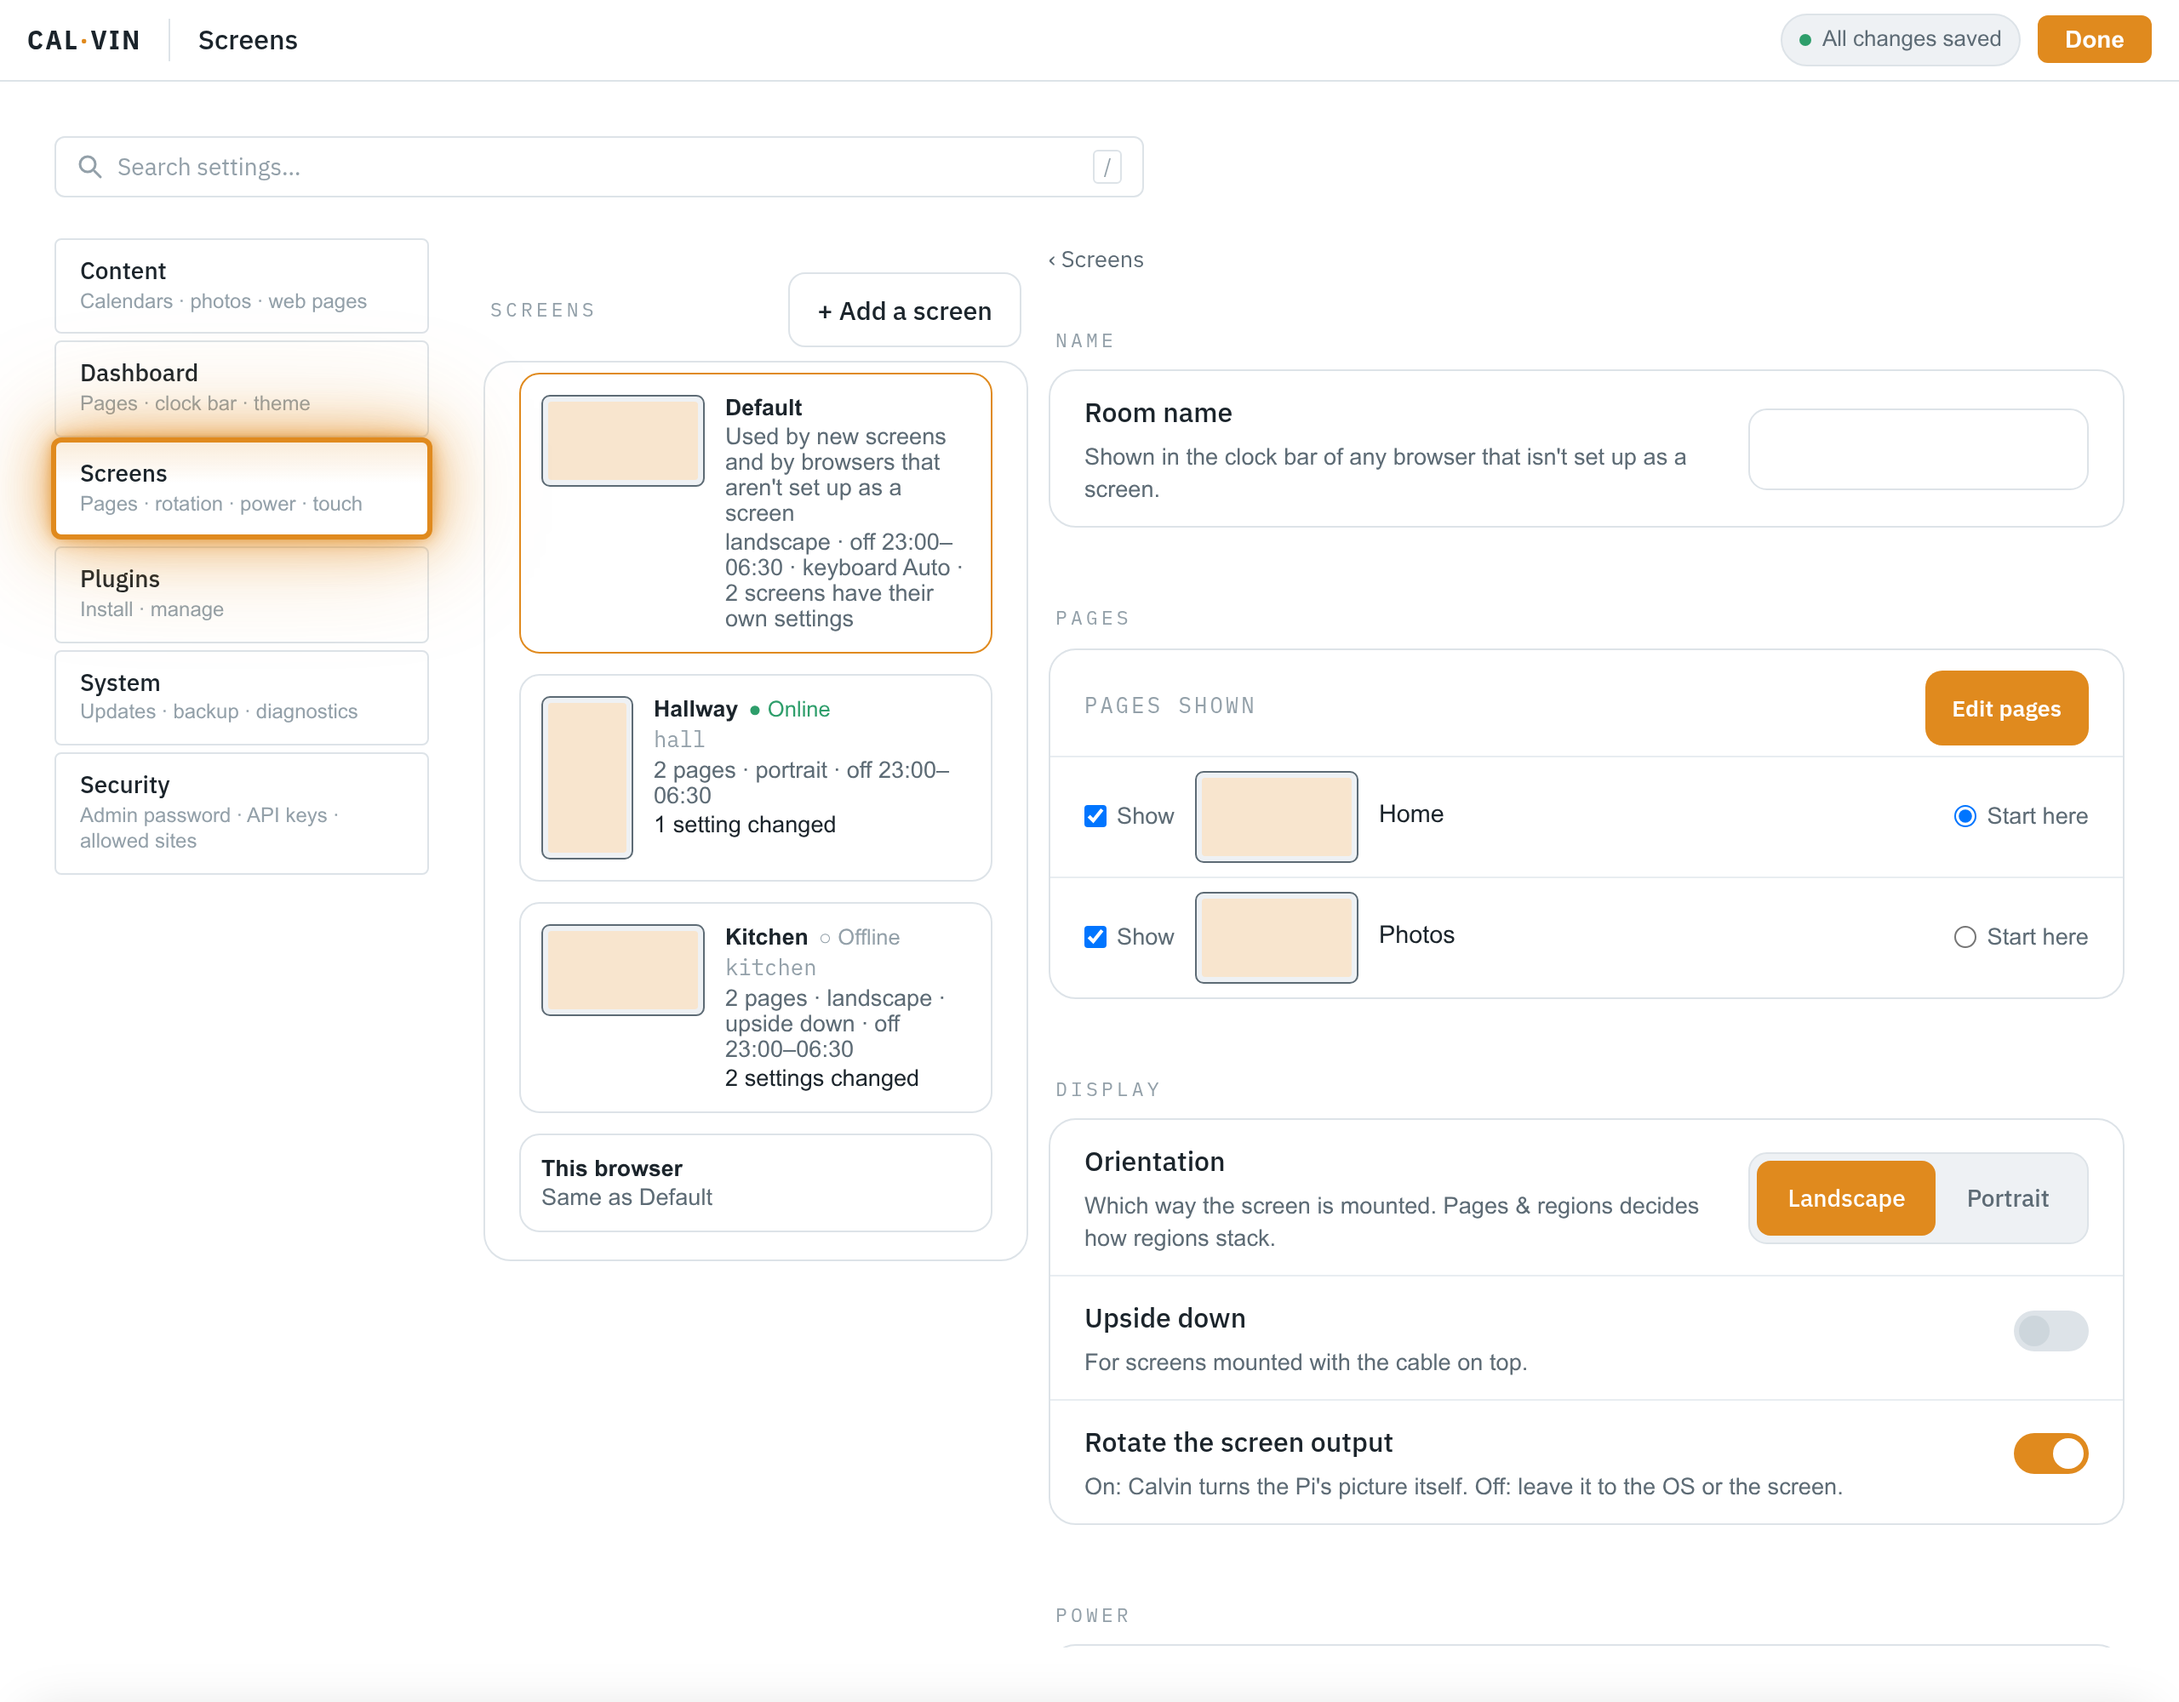
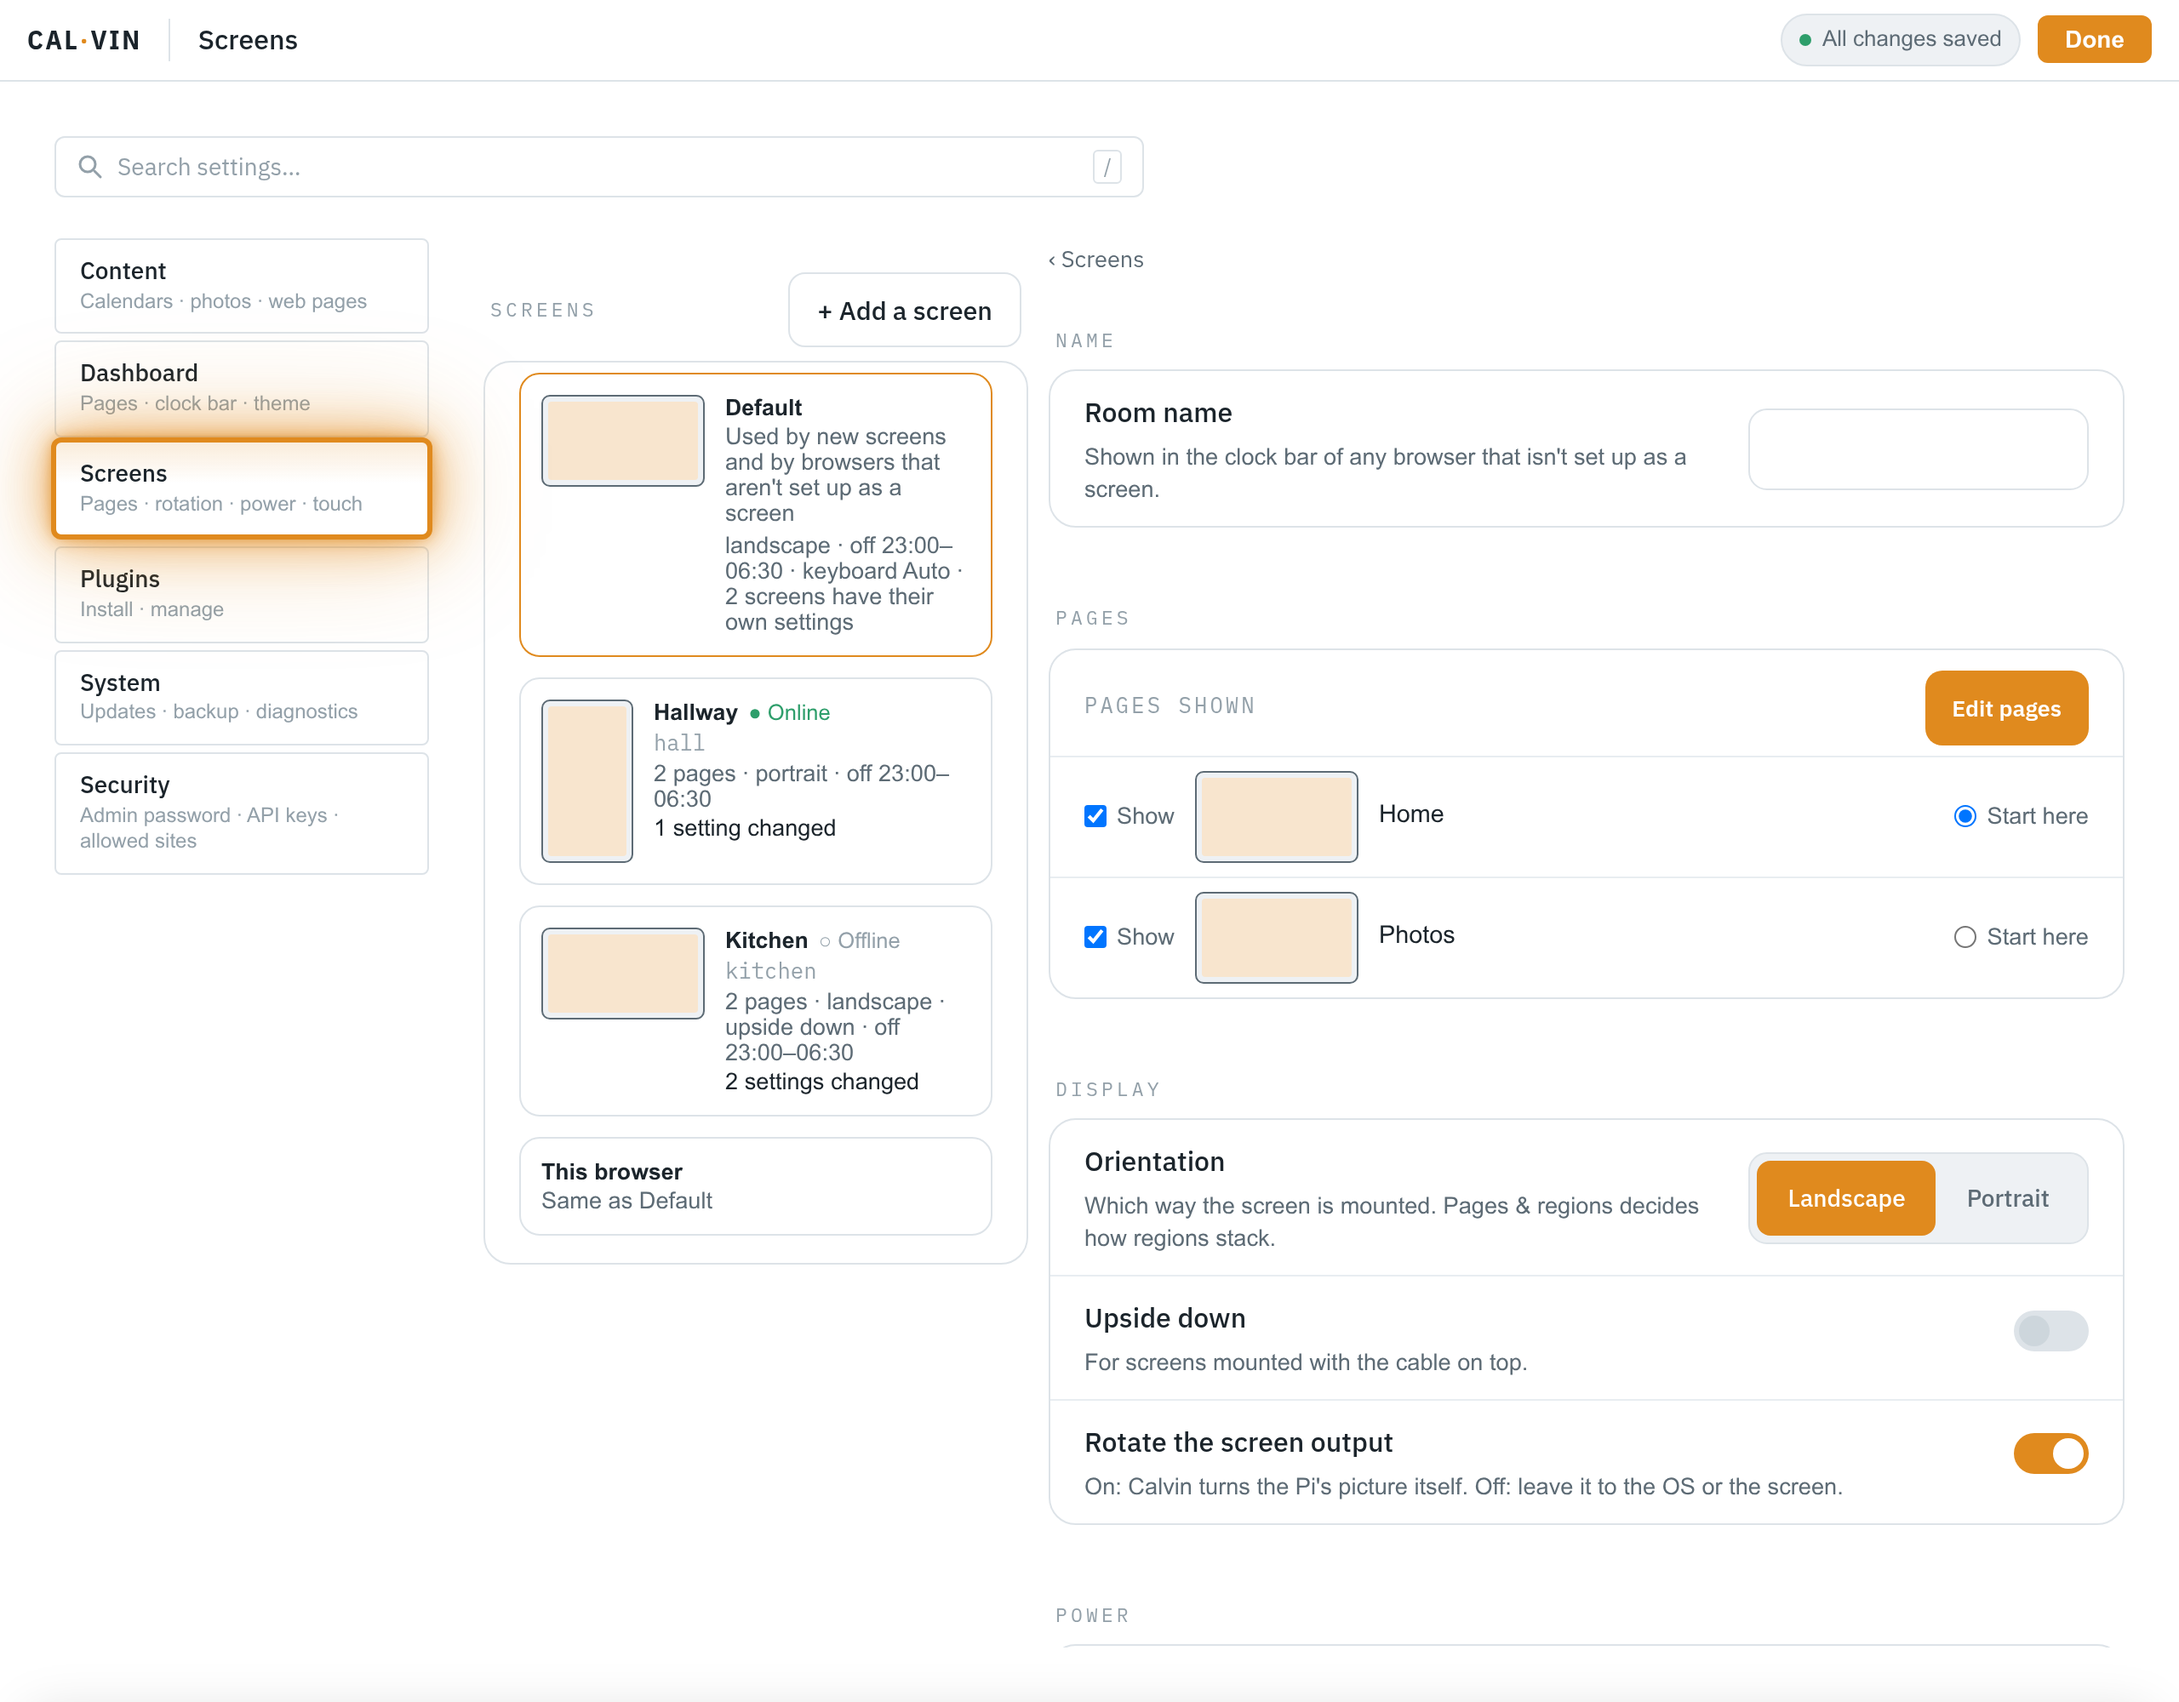
fix(settings): primary confirm for Use these as the default; pad the browser-only Software note (CLV-50)
- ConfirmModal gains a danger prop (default true). Reset everything stays red;
  Make default uses the primary --focus style, since it is not destructive.
- The Software section's browser-only note gets the normal SettingRow padding
  instead of sitting on the card border.
- Default card: keep its summary on its own line, separate from the
  used-by description.
- Refresh the affected before/after screenshots.

Changed region(s): [[0.25, 0.496, 0.4688, 0.744], [0.25, 0.31, 0.4375, 0.496]]

diff --git a/frontend/src/components/settings/shared/ConfirmModal.vue b/frontend/src/components/settings/shared/ConfirmModal.vue
@@ -10,7 +10,7 @@
       </div>
       <div class="modal-footer">
         <button type="button" class="btn-secondary" @click="handleCancel">Cancel</button>
-        <button type="button" class="btn-danger" @click="handleConfirm">
+        <button type="button" :class="danger ? 'btn-danger' : 'btn-primary'" @click="handleConfirm">
           {{ confirmText }}
         </button>
       </div>
@@ -37,6 +37,13 @@ defineProps({
   confirmText: {
     type: String,
     default: "Confirm",
+  },
+  // Destructive actions (delete, reset) keep the red button; a confirming
+  // action that is not destructive (e.g. "Make default") uses the primary
+  // focus style instead, so the colour carries the meaning.
+  danger: {
+    type: Boolean,
+    default: true,
   },
 });
 
@@ -132,6 +139,30 @@ const handleCancel = () => {
 }
 
 .btn-secondary:focus-visible {
+  outline: 2px solid var(--focus);
+  outline-offset: 2px;
+}
+
+.btn-primary {
+  padding: 0.5rem 1rem;
+  min-height: var(--touch-target);
+  background: var(--focus);
+  color: var(--focus-ink);
+  border: none;
+  border-radius: 4px;
+  font-size: 0.9rem;
+  font-weight: 600;
+  cursor: pointer;
+  transition: all 0.2s;
+}
+
+.btn-primary:hover {
+  filter: brightness(1.08);
+  transform: translateY(-1px);
+  box-shadow: 0 2px 4px color-mix(in srgb, var(--focus) 30%, transparent);
+}
+
+.btn-primary:focus-visible {
   outline: 2px solid var(--focus);
   outline-offset: 2px;
 }

diff --git a/frontend/tests/unit/components/ScreensSettings.spec.js b/frontend/tests/unit/components/ScreensSettings.spec.js
@@ -837,9 +837,10 @@ describe("ScreensSettings — software (CLV-19)", () => {
     const { wrapper } = mountScreens({ kiosks: [kiosk({ agentVersion: null })] });
     await flushPromises();
     await selectFirst(wrapper);
-    expect(wrapper.find("[data-test='screen-software-empty']").text()).toContain(
-      "no kiosk software to update"
-    );
+    const empty = wrapper.find("[data-test='screen-software-empty']");
+    expect(empty.text()).toContain("no kiosk software to update");
+    // The note gets the normal row padding instead of sitting on the border.
+    expect(empty.classes()).toContain("screen-software__empty");
   });
 });
 
@@ -1010,6 +1011,7 @@ describe("ScreensSettings — a screen's page against Default (§4)", () => {
       "Its 3 changed settings go back to the default. Its name stays."
     );
     expect(modal.props("confirmText")).toBe("Reset");
+    expect(modal.props("danger")).toBe(true);
 
     modal.vm.$emit("confirm");
     await flushPromises();
@@ -1036,6 +1038,7 @@ describe("ScreensSettings — a screen's page against Default (§4)", () => {
       "Default and every screen that follows it will use Hallway's Orientation and Upside down."
     );
     expect(modal.props("confirmText")).toBe("Make default");
+    expect(modal.props("danger")).toBe(false);
 
     modal.vm.$emit("confirm");
     await flushPromises();

diff --git a/frontend/src/components/settings/categories/ScreensSettings.vue b/frontend/src/components/settings/categories/ScreensSettings.vue
@@ -549,7 +549,7 @@
               <template v-else>Update</template>
             </button>
           </SettingRow>
-          <p v-else class="screens__empty" data-test="screen-software-empty">
+          <p v-else class="screen-software__empty" data-test="screen-software-empty">
             This screen runs in a browser, so there is no kiosk software to update.
           </p>
         </SettingsSection>
@@ -599,6 +599,7 @@
       :title="confirm.title"
       :message="confirm.message"
       :confirm-text="confirm.confirmText"
+      :danger="confirm.mode !== 'use-default'"
       @confirm="onConfirm"
       @cancel="confirm.show = false"
     />
@@ -1399,6 +1400,11 @@ onUnmounted(() => {
   font-size: var(--fs-sm);
   color: var(--ink-2);
 }
+/* The Default card has two prose lines; keep the summary visually separate. */
+.screen-card--default .screen-card__meta {
+  margin-top: 2px;
+  display: block;
+}
 .screen-card__changed {
   font-size: var(--fs-sm);
   font-weight: 500;
@@ -1612,6 +1618,12 @@ onUnmounted(() => {
 .screen-display__caption {
   font-size: var(--fs-xs);
   color: var(--ink-3);
+}
+.screen-software__empty {
+  margin: 0;
+  padding: 0.75rem 1.25rem;
+  font-size: var(--fs-sm);
+  color: var(--ink-2);
 }
 .screen-software__desc {
   margin: 0.2rem 0 0;

diff --git a/frontend/tests/unit/components/ConfirmModal.spec.js b/frontend/tests/unit/components/ConfirmModal.spec.js
@@ -195,5 +195,21 @@ describe("ConfirmModal", () => {
       expect(cancelButton.classes()).toContain("btn-secondary");
       expect(confirmButton.classes()).toContain("btn-danger");
     });
+
+    it("uses the primary style for a confirm that is not destructive", () => {
+      const wrapper = mount(ConfirmModal, {
+        props: {
+          show: true,
+          message: "Make these the default?",
+          confirmText: "Make default",
+          danger: false,
+        },
+      });
+
+      const confirmButton = wrapper.find(".modal-footer button:last-child");
+      expect(confirmButton.text()).toBe("Make default");
+      expect(confirmButton.classes()).toContain("btn-primary");
+      expect(confirmButton.classes()).not.toContain("btn-danger");
+    });
   });
 });
